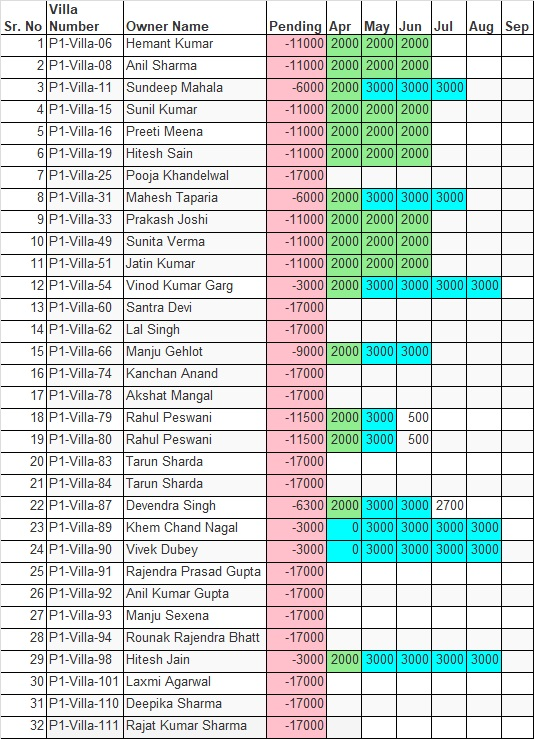
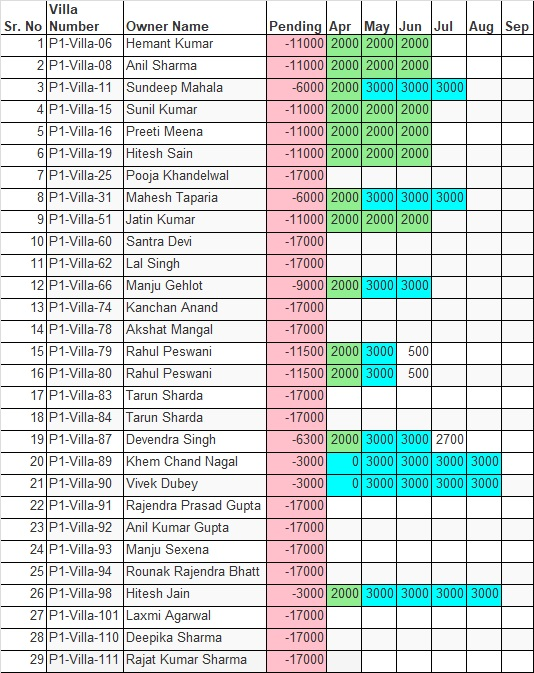
ok

diff --git a/MonthlyMaintenance.html b/MonthlyMaintenance.html
@@ -209,7 +209,7 @@
         list.push("P1-Villa-30,Peeyush Mathur,0,0,0,0,,,,,,");   
         list.push("P1-Villa-31,Mahesh Taparia,-6000,2000,3000,3000,3000,,,,,"); 
         list.push("P1-Villa-32,Peeyush Verma,0,2000,3000,3000,3000,3000,3000,,,"); 
-        list.push("P1-Villa-33,Prakash Joshi,-11000,2000,2000,2000,,,,,,");
+        list.push("P1-Villa-33,Prakash Joshi,0,2000,3000,3000,3000,3000,3000,,,");
         list.push("P1-Villa-34,Vijay Meena,0,2000,3000,3000,3000,3000,3000,,,"); 
         list.push("P1-Villa-35,D V Saraswat,0,2000,3000,3000,3000,3000,3000,,,"); 
         list.push("P1-Villa-36,Harish Kumar Yadav,0,2000,3000,3000,3000,3000,3000,,,"); 
@@ -225,12 +225,12 @@
         list.push("P1-Villa-46,Vikas Mahala,0,2000,3000,3000,3000,3000,3000,,,"); 
         list.push("P1-Villa-47,Manoj Ji,0,2000,3000,3000,3000,3000,3000,,,"); 
         list.push("P1-Villa-48,R C Sharma ,0,2000,3000,3000,3000,3000,3000,,,"); 
-        list.push("P1-Villa-49,Sunita Verma,-11000,2000,2000,2000,,,,,,"); 
+        list.push("P1-Villa-49,Sunita Verma,0,2000,3000,3000,3000,3000,3000,,,"); 
         list.push("P1-Villa-50,Abhishek Garg,0,2000,3000,3000,3000,3000,3000,,,"); 
         list.push("P1-Villa-51,Jatin Kumar,-11000,2000,2000,2000,,,,,,"); 
         list.push("P1-Villa-52,Shailesh Bansal,0,2000,3000,3000,3000,3000,3000,,,"); 
         list.push("P1-Villa-53,Rohit Jain,0,2000,3000,3000,3000,3000,3000,,,"); 
-        list.push("P1-Villa-54,Vinod Kumar Garg,-3000,2000,3000,3000,3000,3000,,,,"); 
+        list.push("P1-Villa-54,Vinod Kumar Garg,0,2000,3000,3000,3000,3000,3000,,,"); 
         list.push("P1-Villa-55,Raj Kamal,0,2000,3000,3000,3000,3000,3000,,,"); 
         list.push("P1-Villa-56_57A,Kajor Mal Goyal,0,2000,3000,3000,3000,3000,3000,,,"); 
         list.push("P1-Villa-58_57B,Deepak Swaroop Garg,0,2000,3000,3000,3000,3000,3000,,,"); 

diff --git a/index.html b/index.html
@@ -120,14 +120,12 @@
 	   
  --> 
  <marquee  scrollamount="5" style= "color:rgb(216, 21, 132) ; font-size:20px" height="30px" > 
-	<h4><span style="color:rgb(155, 5, 75)">On APP details are updated till </span> <span style="color:blue">  14 Sep 2024, 01:00 PM </span> </h4>
+	<h4><span style="color:rgb(155, 5, 75)">On APP details are updated till </span> <span style="color:blue">  17 Sep 2024, 09:00 PM </span> </h4>
 </marquee>
 <marquee  scrollamount="4" style= "color:rgb(216, 21, 132) ; font-size:20px" height="30px" > 
 	<h4><span style="color:rgba(230, 7, 148, 0.915)">As discussed with Society Secretary....,</span> <span style="color:rgb(12, 146, 10)">  Now details are not necessary to update on App, commitee maintaining details at their end, committee will publish the details in group. </span> </h4>
 </marquee>
- <marquee  scrollamount="5" style= "color:rgb(216, 21, 132) ; font-size:20px" height="30px" > 
-	<h4><span style="color:rgb(155, 5, 75)">Ganesh Visarjan on Sunday 15 Sep, 3:30 PM.</span> <span style="color:blue">  Prize distribution planned on the same day. </span> </h4>
-</marquee>
+
 
 <img class="NO-CACHE" data-src="img/Election.jpg" width="400px" heigt="350px" alt="" style="margin-bottom: 22px;">
 	
@@ -137,7 +135,9 @@
 <img class="NO-CACHE" data-src="img/Pending_10Sep24.jpg" width="320px" heigt="400px" alt="" style="margin-bottom: 22px;">
 
 <!--
-   	   
+   	    <marquee  scrollamount="5" style= "color:rgb(216, 21, 132) ; font-size:20px" height="30px" > 
+	<h4><span style="color:rgb(155, 5, 75)">Ganesh Visarjan on Sunday 15 Sep, 3:30 PM.</span> <span style="color:blue">  Prize distribution planned on the same day. </span> </h4>
+</marquee>
    <marquee  scrollamount="5" style= "color:rgb(5, 97, 27) ; font-size:20px" height="30px" > 
 	
 	<p> Society receipt book is printed, please everyone collect payment receipt from treasury. </p>
